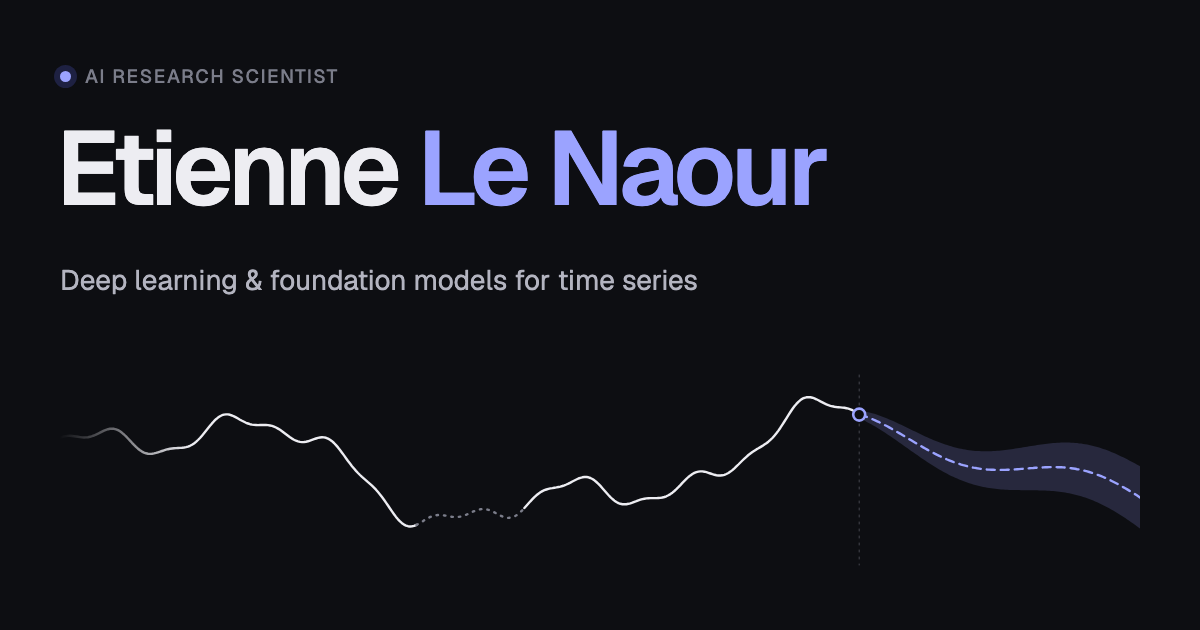
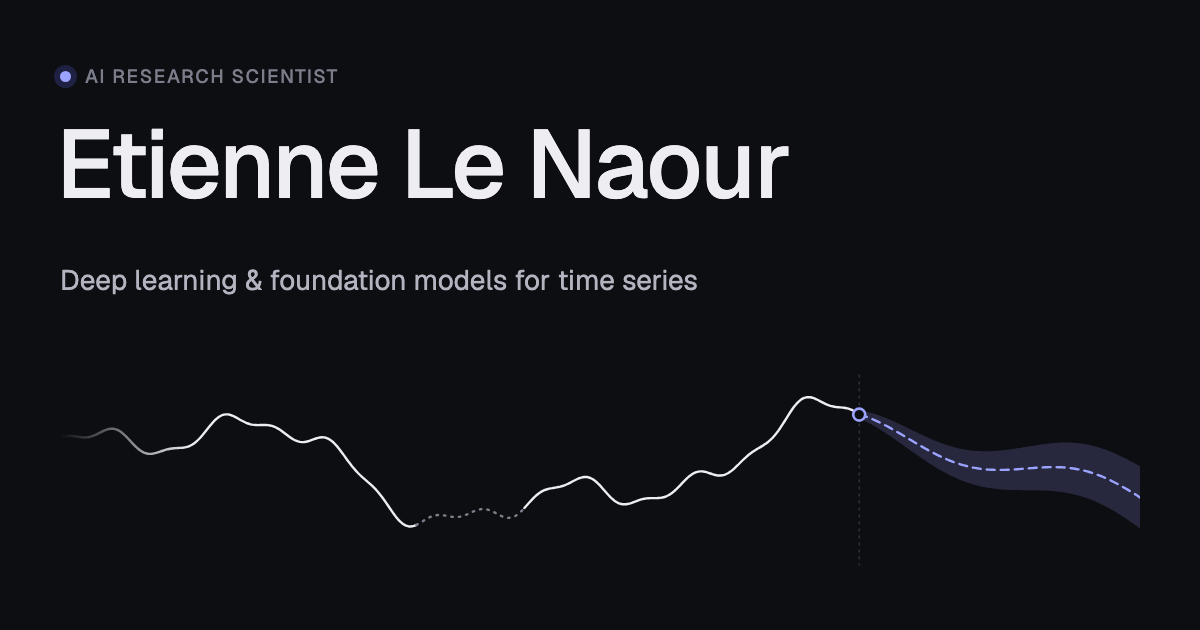
update

Changed region(s): [[0.0617, 0.181, 0.7092, 0.3317]]

diff --git a/index.html b/index.html
@@ -2,16 +2,12 @@
 layout: default
 title: "Etienne Le Naour"
 ---
-<figure class="banner">
-  <img src="{{ '/assets/images/banner.jpg' | relative_url }}" srcset="{{ '/assets/images/banner-1200.jpg' | relative_url }} 1200w, {{ '/assets/images/banner.jpg' | relative_url }} 2400w" sizes="100vw" alt="Alpine valley with a mountain stream" width="2400" height="606" fetchpriority="high">
-</figure>
-
 <section class="hero wrap">
   <div class="hero__text">
     <p class="kicker"><span class="kicker__dot" aria-hidden="true"></span>{{ site.author.role }}</p>
-    <h1 class="hero__title">Etienne <em>Le&nbsp;Naour</em></h1>
+    <h1 class="hero__title">Etienne Le&nbsp;Naour</h1>
     <p class="hero__lead">
-      I work on <em>foundation models for time series</em>: pretraining models
+      I work on <strong>foundation models for time series</strong>: pretraining models
       that learn general-purpose representations of temporal data, and making
       them adapt to new series and tasks at inference time, through in-context
       learning rather than retraining. My research spans
@@ -91,7 +87,7 @@ title: "Etienne Le Naour"
     <h2 class="section__label">PhD thesis</h2>
     <div class="section__body">
       <div class="card card--feature card--media">
-        <img class="card__media" src="{{ '/assets/images/papers/thesis.png' | relative_url }}" alt="Time series tasks: forecasting, imputation, classification and anomaly detection" loading="lazy">
+        <img class="card__media" src="{{ '/assets/images/papers/thesis-repr.png' | relative_url }}" alt="A time series is encoded into a representation z and decoded back" loading="lazy">
         <p class="card__eyebrow">Sorbonne University · 2024</p>
         <p class="card__title">Learning Neural Representations for Time Series</p>
         <div class="card__actions">

diff --git a/assets/css/main.css b/assets/css/main.css
@@ -305,36 +305,22 @@ button.btn { font-family: inherit; cursor: pointer; }
 
 /* ---------- Hero (home) ---------- */
 
-.banner {
-  margin: 0;
-  height: clamp(170px, 24vw, 340px);
-  overflow: hidden;
-  background: var(--surface-2);
-}
-.banner img {
-  width: 100%;
-  height: 100%;
-  object-fit: cover;
-  object-position: 50% 45%;
-}
-
 .hero {
   display: grid;
   grid-template-columns: 168px minmax(0, 1fr);
   gap: clamp(28px, 4vw, 48px);
   align-items: start;
-  padding-top: clamp(32px, 5vw, 64px);
+  padding-top: clamp(40px, 7vw, 80px);
   padding-bottom: 28px;
 }
 
 .hero__title {
   margin: 0 0 22px;
-  font-weight: 600;
-  font-size: clamp(42px, 7vw, 80px);
-  line-height: 1;
-  letter-spacing: -0.045em;
+  font-weight: 500;
+  font-size: clamp(32px, 4.6vw, 52px);
+  line-height: 1.1;
+  letter-spacing: -0.02em;
 }
-.hero__title em { font-style: normal; color: var(--accent); }
 
 .hero__lead {
   max-width: 40em;
@@ -343,7 +329,6 @@ button.btn { font-family: inherit; cursor: pointer; }
   line-height: 1.6;
   color: var(--ink-2);
 }
-.hero__lead em { font-style: normal; color: var(--ink); background: linear-gradient(transparent 62%, var(--accent-soft) 62%); }
 .hero__lead strong { color: var(--ink); font-weight: 500; }
 
 .socials {

diff --git a/README.md b/README.md
@@ -18,7 +18,7 @@ Most content is plain YAML in `_data/`. Edit these files, no HTML needed:
 
 The home page bio and research interests are in `index.html`.
 
-Paper thumbnails live in `assets/images/papers/` (PNG, ~800px wide, white background); reference one with `image:` in `_data/publications.yml`. The thesis card image is `assets/images/papers/thesis.png`.
+Paper thumbnails live in `assets/images/papers/` (PNG, ~800px wide, white background); reference one with `image:` in `_data/publications.yml`. The thesis card image is `assets/images/papers/thesis-repr.png`.
 
 Link previews (LinkedIn, Slack...) use `assets/images/og.png` (1200×630).
 
